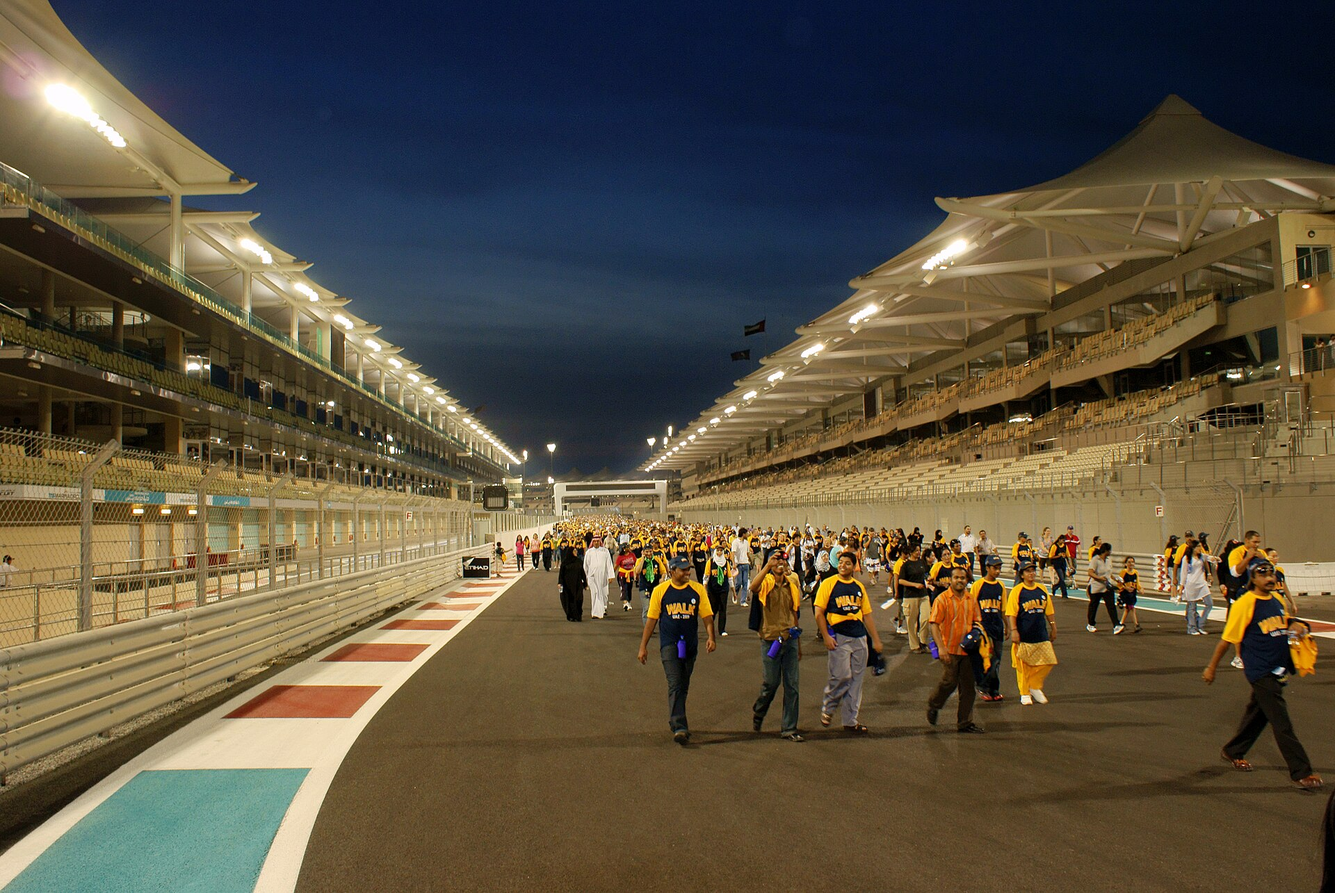
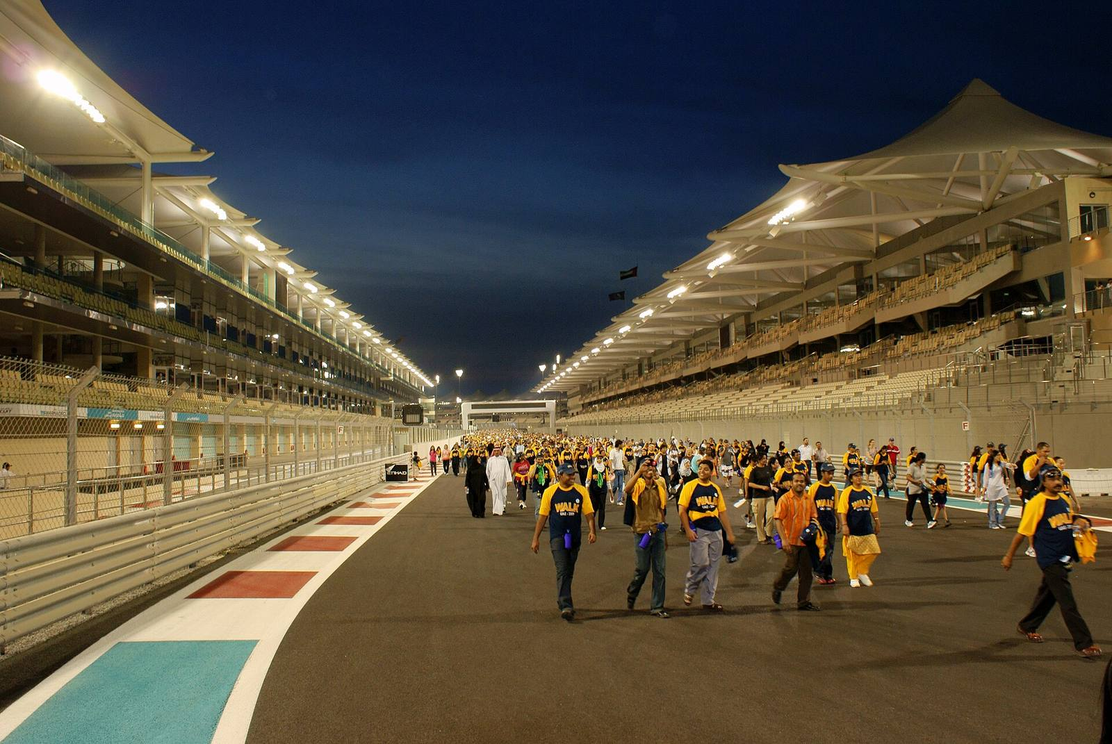
Circuit photos: reviewed, five rejected, all shrunk for the web
- Looked at all 31 photos the workflow found. Five were not right for a circuit header and are
  removed (the next search result is taken on the next run): a MotoGP rider close-up (Losail),
  a mural (Miami), a 1927 illustrated map (Nürburgring), a 7:1 strip (Imola) and a city road
  away from the circuit (Jeddah). They are listed in REJECT, and words like rider, mural,
  drawing and banner are skipped; very thin strips (wider than 2.6:1) are refused.
- Saved copies are 1600 px progressive JPEGs at quality 72 (Commons serves 1920 px copies):
  21 MB -> 8.9 MB for the photos kept. New downloads are shrunk the same way (Pillow).
- A circuit that already has a photo keeps it on a rerun (--refresh searches again), so the
  workflow only looks for the missing ones.

Claude-Session: https://claude.ai/code/session_01BzYhPHCBtA5DQMBdDmSG96

Changed region(s): [[0.3438, 0.5854, 0.8438, 0.6779], [0.8438, 0.6162, 0.9062, 0.6779]]

diff --git a/fetch_circuit_photos_v1.py b/fetch_circuit_photos_v1.py
@@ -7,10 +7,15 @@ wide, with no track-map, logo or diagram in the file name, and only free licence
 domain, CC BY, CC BY-SA). Every photo is stored with its author, licence and source page, which
 the site shows. A photo picked by hand goes in PICKS.
 
-Needs internet access (Wikimedia Commons). Run it from the repo folder:
+A circuit that already has a photo keeps it (reruns are cheap and stable) unless the photo is in
+REJECT (looked at and not right for a header) or the circuit is named with --only; --refresh
+searches every circuit again. Downloads are shrunk to WIDTH px wide JPEGs for the web.
 
-    python fetch_circuit_photos_v1.py --download        # saves 1600 px copies under frontend/public/circuit-photos/img
-    python fetch_circuit_photos_v1.py --only jp-1962
+Needs internet access (Wikimedia Commons), except --shrink. Run it from the repo folder:
+
+    python fetch_circuit_photos_v1.py --download        # saves copies under frontend/public/circuit-photos/img
+    python fetch_circuit_photos_v1.py --download --only jp-1962
+    python fetch_circuit_photos_v1.py --shrink          # re-compress the saved copies (no internet)
 
 Then commit frontend/public/circuit-photos/.
 """
@@ -31,8 +36,12 @@ OUT_DIR = ROOT / "frontend" / "public" / "circuit-photos"
 WIDTH = 1600
 MIN_WIDTH = 1600            # original width
 MIN_ASPECT = 1.45           # clearly landscape: a header is wide and short
+MAX_ASPECT = 2.6            # but not a thin strip, which the header would blow up and blur
+QUALITY = 72                # JPEG quality of the saved copies
 SKIP_WORDS = ("map", "layout", "logo", "diagram", "plan", "svg", "sign", "ticket", "trophy", "badge", "poster",
-              "helmet", "portrait", "interview", "press", "museum", "statue", "plaque", "crash", "accident")
+              "helmet", "portrait", "interview", "press", "museum", "statue", "plaque", "crash", "accident",
+              "motogp", "rider", "racer", "mural", "graffiti", "painting", "drawing", "illustration", "banner",
+              "vogelschau")
 GOOD_WORDS = ("aerial", "panorama", "grandstand", "start", "straight", "circuit", "track", "race", "view", "pit")
 
 # Searches per circuit, best first (the circuit's own name is always tried last).
@@ -71,6 +80,16 @@ QUERIES: dict[str, list[str]] = {
 }
 # Hand-picked Commons files (after review), circuit id -> "File:..."
 PICKS: dict[str, str] = {}
+# Looked at and not right for a circuit header (a rider close-up, a mural, a 1927 drawing, a thin
+# strip, a city road away from the circuit): never used, the next search result is taken instead.
+REJECT: set[str] = {
+    "File:Italian professional motorcycle racer and multiple MotoGP World Champion Valentino Rossi in action in the day 1 "
+    "of Qatar test at the Losail International Circuit. (33220830442).jpg",
+    "File:Serty31 - Aston Martin F1 Miami - 2025.jpg",
+    "File:Nürburgring, Vogelschauansicht, Eugen Felle, 1927.jpg",
+    "File:Imola banner.jpg",
+    "File:Jeddah Corniche 37.jpg",
+}
 
 
 def circuits() -> list[dict]:
@@ -100,10 +119,21 @@ def file_info(title: str, width: int) -> dict | None:
 
 
 def acceptable(info: dict | None) -> bool:
-    if not info or info["non_free"] or not free_licence(info["license"]) or info["mime"] != "image/jpeg":
+    if not info or info["file"] in REJECT or info["non_free"] or not free_licence(info["license"]) or info["mime"] != "image/jpeg":
         return False
     w, h = info["orig_width"] or 0, info["orig_height"] or 1
-    return w >= MIN_WIDTH and w / h >= MIN_ASPECT
+    return w >= MIN_WIDTH and MIN_ASPECT <= w / h <= MAX_ASPECT
+
+
+def shrink(path: Path, width: int = WIDTH) -> None:
+    """At most `width` px wide, progressive JPEG at QUALITY (Commons serves 1920 px copies)."""
+    from PIL import Image
+
+    with Image.open(path) as im:
+        im = im.convert("RGB")
+        if im.width > width:
+            im = im.resize((width, round(im.height * width / im.width)), Image.LANCZOS)
+        im.save(path, "JPEG", quality=QUALITY, optimize=True, progressive=True)
 
 
 def score(title: str) -> int:
@@ -128,14 +158,31 @@ def main() -> int:
     parser.add_argument("--download", action="store_true", help="save resized copies under frontend/public/circuit-photos/img")
     parser.add_argument("--only", action="append", default=[], help="circuit id(s), e.g. jp-1962")
     parser.add_argument("--width", type=int, default=WIDTH)
+    parser.add_argument("--refresh", action="store_true", help="search again for circuits that already have a photo")
+    parser.add_argument("--shrink", action="store_true", help="only re-compress the saved copies (no internet)")
     args = parser.parse_args()
+
+    if args.shrink:
+        for f in sorted((OUT_DIR / "img").glob("*.jpg")):
+            before = f.stat().st_size
+            shrink(f, args.width)
+            print(f"  {f.name:12} {before // 1024:5} KB -> {f.stat().st_size // 1024:4} KB")
+        return 0
 
     out_file = OUT_DIR / "photos.json"
     existing = json.loads(out_file.read_text()) if out_file.exists() else {"photos": {}}
     photos: dict = existing.get("photos", {})
-    found = missing = 0
+    found = missing = kept = 0
     for c in circuits():
         if args.only and c["id"] not in args.only:
+            continue
+        have = photos.get(c["id"])
+        if have and have["file"] in REJECT:
+            photos.pop(c["id"])
+            if have.get("src", "").startswith("/circuit-photos/img/"):
+                (OUT_DIR / "img" / f"{c['id']}.jpg").unlink(missing_ok=True)
+        elif have and not args.refresh and not args.only:
+            kept += 1
             continue
         try:
             info = file_info(PICKS[c["id"]], args.width) if c["id"] in PICKS else find(c, args.width)
@@ -153,6 +200,7 @@ def main() -> int:
                 r = session.get(info["thumb"], timeout=60)
                 r.raise_for_status()
                 target.write_bytes(r.content)
+                shrink(target, args.width)
                 info["src"] = f"/circuit-photos/img/{c['id']}.jpg"
                 time.sleep(0.4)
             else:
@@ -169,7 +217,7 @@ def main() -> int:
         "updated": datetime.now(timezone.utc).strftime("%Y-%m-%d"),
         "photos": dict(sorted(photos.items())),
     }, indent=1, ensure_ascii=False) + "\n")
-    print(f"{found} photos, {missing} without; wrote {out_file}")
+    print(f"{found} photos found, {kept} kept, {missing} without; wrote {out_file}")
     return 0
 
 
